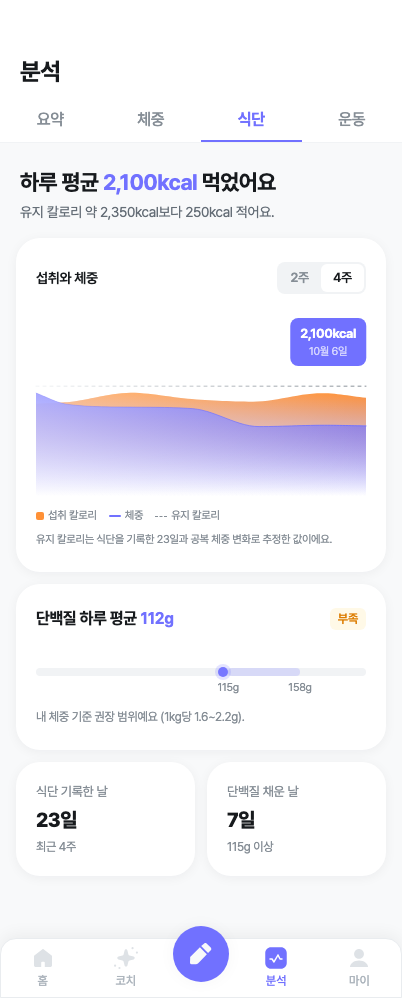
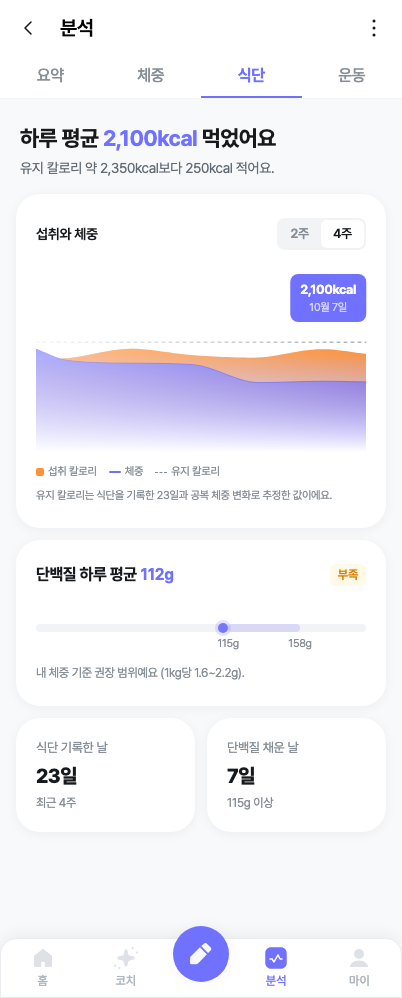
Context Health: 시작 화면 최소 표시 시간, 식단 차트 면적을 항상 꽉 채움
- 시작 화면을 로고 모션이 완성되는 1.6초 동안 유지한 뒤 홈으로 전환
- 앱 실행 직후 폰이 보여주는 화면의 배경색(manifest background_color)을 시작 화면 중간색으로 변경
- 식단 차트: 기록이 없는 앞뒤 구간을 첫 값·마지막 값으로 평평하게 이어 면적이 차트 폭을 채우도록 하고, 가장자리 흐림 처리 제거

diff --git a/Context health/src/components/analysis/AnalysisTabs.jsx b/Context health/src/components/analysis/AnalysisTabs.jsx
@@ -543,38 +543,23 @@ function IntakeChart({ days, from, to, maintenance, weightSeries }) {
   const maxKcal = Math.max(...days.map(d => d.kcal), maintenance.ready ? maintenance.tdee : 0) * 1.12;
   const px = x => ((x - from) / spanX) * W;
   const ky = kcal => H - (kcal / maxKcal) * PLOT;
-  const top = flowPoints(reducePoints(days.map(d => [px(d.x), ky(d.kcal)]), 7));
+  // 기록이 없는 앞뒤 구간은 첫 값·마지막 값으로 평평하게 이어서 면적이 항상 차트 폭을 꽉 채우게 한다.
+  const spanFull = (points) => {
+    if (!points.length) return points;
+    const out = [...points];
+    if (out[0][0] > 0.5) out.unshift([0, out[0][1]]);
+    if (out[out.length - 1][0] < W - 0.5) out.push([W, out[out.length - 1][1]]);
+    return out;
+  };
+  const top = flowPoints(spanFull(reducePoints(days.map(d => [px(d.x), ky(d.kcal)]), 7)));
   const area = top.length > 1 ? `${toPath(top)} L ${top[top.length - 1][0].toFixed(2)} ${H} L ${top[0][0].toFixed(2)} ${H} Z` : '';
   const line = weightSeries.filter(p => p.x >= from && p.x <= to);
-  const minW = Math.min(...line.map(p => p.avg));
-  const spanW = Math.max(0.6, Math.max(...line.map(p => p.avg)) - minW);
+  const minW = line.length ? Math.min(...line.map(p => p.avg)) : 0;
+  const spanW = line.length ? Math.max(0.6, Math.max(...line.map(p => p.avg)) - minW) : 1;
   const wy = v => TOP + 20 + (1 - (v - minW) / spanW) * 36;
-  const weightTop = line.length > 1 ? flowPoints(reducePoints(line.map(p => [px(p.x), wy(p.avg)]), 7)) : [];
+  const weightTop = line.length ? flowPoints(spanFull(reducePoints(line.map(p => [px(p.x), wy(p.avg)]), 7))) : [];
   const weightArea = weightTop.length ? `${toPath(weightTop)} L ${weightTop[weightTop.length - 1][0].toFixed(2)} ${H} L ${weightTop[0][0].toFixed(2)} ${H} Z` : '';
   const day = days[index];
-  // 기록이 기간 중간에서 시작하거나 끝나면 면적이 잘린 것처럼 보인다. 그 가장자리는 서서히 사라지게 한다.
-  const edgeFade = (id, curve) => {
-    if (curve.length < 2) return null;
-    const x0 = curve[0][0]; const x1 = curve[curve.length - 1][0];
-    const fade = Math.min(28, (x1 - x0) / 3);
-    const left = x0 > 2; const right = x1 < W - 2;
-    if (!left && !right) return null;
-    return (
-      <>
-        <linearGradient id={`${id}-g`} gradientUnits="userSpaceOnUse" x1={x0} y1="0" x2={x1} y2="0">
-          <stop offset="0" stopColor="#fff" stopOpacity={left ? 0 : 1} />
-          <stop offset={fade / (x1 - x0)} stopColor="#fff" />
-          <stop offset={1 - fade / (x1 - x0)} stopColor="#fff" />
-          <stop offset="1" stopColor="#fff" stopOpacity={right ? 0 : 1} />
-        </linearGradient>
-        <mask id={id} maskUnits="userSpaceOnUse" x="0" y="0" width={W} height={H}>
-          <rect x={x0} y="0" width={x1 - x0} height={H} fill={`url(#${id}-g)`} />
-        </mask>
-      </>
-    );
-  };
-  const intakeMask = edgeFade('intake-edge', top);
-  const weightMask = edgeFade('weight-edge', weightTop);
   const pick = (event) => {
     const rect = event.currentTarget.getBoundingClientRect();
     const x = from + (Math.min(rect.width, Math.max(0, event.clientX - rect.left)) / rect.width) * spanX;
@@ -601,8 +586,6 @@ function IntakeChart({ days, from, to, maintenance, weightSeries }) {
             <stop offset="0" stopColor={POINT} stopOpacity="0.2" />
             <stop offset="1" stopColor={POINT} />
           </linearGradient>
-          {intakeMask}
-          {weightMask}
           <linearGradient id="intake-maint" gradientUnits="userSpaceOnUse" x1="0" y1="0" x2={W} y2="0">
             <stop offset="0" stopColor="#f1f3f5" />
             <stop offset="1" stopColor="#868e96" />
@@ -612,13 +595,13 @@ function IntakeChart({ days, from, to, maintenance, weightSeries }) {
           <line x1="0" x2={W} y1={ky(maintenance.tdee)} y2={ky(maintenance.tdee)} stroke="url(#intake-maint)" strokeWidth="1" strokeDasharray="3 4" strokeLinecap="round" />
         )}
         {area && (
-          <g mask={intakeMask ? 'url(#intake-edge)' : undefined}>
+          <g>
             <path d={area} fill="url(#intake-fill)" />
             <path d={area} fill="url(#intake-haze)" opacity="0.4" />
           </g>
         )}
         {weightArea && (
-          <g mask={weightMask ? 'url(#weight-edge)' : undefined}>
+          <g>
             <path d={weightArea} fill="url(#weight-fill)" />
             <path d={weightArea} fill="url(#intake-haze)" opacity="0.4" />
             <path d={toPath(weightTop)} fill="none" stroke="url(#intake-line)" strokeWidth="1" strokeLinecap="round" strokeLinejoin="round" />

diff --git a/Context health/src/App.jsx b/Context health/src/App.jsx
@@ -78,11 +78,15 @@ function isAppHistoryState(state) {
 }
 
 
+const SPLASH_MIN_MS = 1600; // LogoMotion 인트로가 끝나는 시간
+
 function App() {
   const [user, setUser]       = useState(undefined); // undefined = 로딩 중
   const [profile, setProfile] = useState(null);
   const [onboardingDone, setOnboardingDone] = useState(false);
   const [userDataReady, setUserDataReady] = useState(false);
+  const [splashHold, setSplashHold] = useState(true);
+  const splashStartRef = useRef(Date.now());
   const [tab, setTab]         = useState('home');
   const [prevTab, setPrevTab] = useState('home');
   const [screen, setScreen]   = useState('home'); // home | memo | diet-detail
@@ -264,6 +268,20 @@ function App() {
   useEffect(() => {
     if (user !== undefined) setSentryUser(user);
   }, [user]);
+
+  /* 시작 화면 최소 표시 시간: 로고가 다 그려지는 SPLASH_MIN_MS 동안은 넘어가지 않는다. */
+  const loadingUser = user === undefined || Boolean(user && !userDataReady);
+  useEffect(() => {
+    if (loadingUser) {
+      splashStartRef.current = Date.now();
+      setSplashHold(true);
+      return undefined;
+    }
+    const remaining = SPLASH_MIN_MS - (Date.now() - splashStartRef.current);
+    if (remaining <= 0) { setSplashHold(false); return undefined; }
+    const timer = window.setTimeout(() => setSplashHold(false), remaining);
+    return () => window.clearTimeout(timer);
+  }, [loadingUser]);
 
   useEffect(() => {
     /* 다른 탭에서 '다른 계정'으로 바뀐 경우에만 새로고침한다.
@@ -526,8 +544,9 @@ function App() {
     setAiGoals(next);
   }
 
-  /* ── 로딩 (시작 화면) ── */
-  if (user === undefined || (user && !userDataReady)) {
+  /* ── 로딩 (시작 화면) ──
+     기록을 금방 불러와도 로고 모션이 완성될 때까지는 시작 화면을 유지한다. */
+  if (user === undefined || (user && (!userDataReady || splashHold))) {
     return (
       <div className="min-h-dvh bg-[#f1f3f5] flex justify-center items-start sm:items-center">
         <div className="w-full max-w-[430px] h-dvh relative overflow-hidden shadow-2xl">

diff --git a/Context health/vite.config.js b/Context health/vite.config.js
@@ -42,7 +42,8 @@ export default defineConfig({
         short_name: 'Context Health',
         description: 'AI 기반 운동·식단 관리',
         theme_color: '#ffffff',
-        background_color: '#ffffff',
+        // 폰이 앱을 띄우는 순간 보여주는 화면의 배경. 시작 화면 그라데이션의 중간색으로 맞춘다.
+        background_color: '#999fff',
         display: 'standalone',
         orientation: 'portrait',
         scope: '/',
